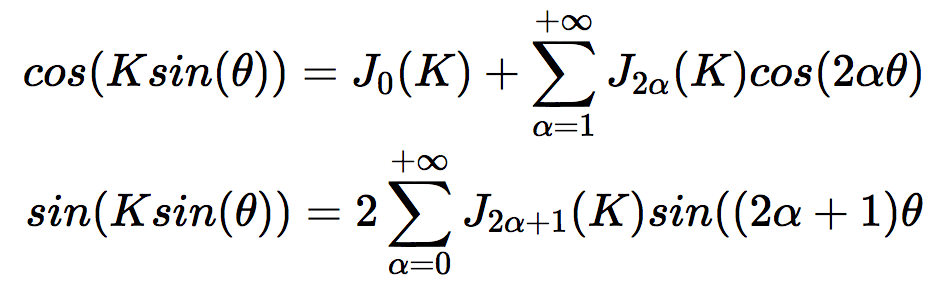
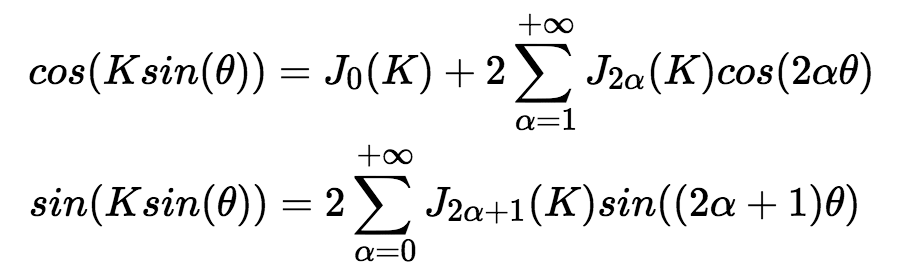
add deduction of fm spectrum

Changed region(s): [[0.0, 0.0288, 0.9978, 0.4892], [0.0312, 0.518, 0.9978, 0.9496]]

diff --git a/03-frequency-modulation/assets/math.html b/03-frequency-modulation/assets/math.html
@@ -25,8 +25,8 @@
     $$= J_0(K) + 2i\sum_{α=0}^{+\infty}J_{2α+1}(K)sin((2α+1)θ) + 2\sum_{α=1}^{+\infty}J_{2α}(K)cos(2αθ)$$
     $$e^{iKsin(θ)} = cos(Ksin(θ)) + isin(Ksin(θ))$$
 
-    $$cos(Ksin(θ)) = J_0(K) + \sum_{α=1}^{+\infty}J_{2α}(K)cos(2αθ)$$
-    $$sin(Ksin(θ)) = 2\sum_{α=0}^{+\infty}J_{2α+1}(K)sin((2α+1)θ$$
+    $$cos(Ksin(θ)) = J_0(K) + 2\sum_{α=1}^{+\infty}J_{2α}(K)cos(2αθ)$$
+    $$sin(Ksin(θ)) = 2\sum_{α=0}^{+\infty}J_{2α+1}(K)sin((2α+1)θ)$$
     <!-- $$\sum_{i=0}^{+\infty} \frac{1}{i^2}$$ -->
 
     $$cos(2πf_ct)cos(Ksin(2πf_mt)) = J_0(K)cos(2πf_ct) + \sum_{α=1}^{+\infty}J_{2α}(K)(cos(2π(f_c-2αf_m)t) + cos(2π(f_c+2αf_m)t))$$
